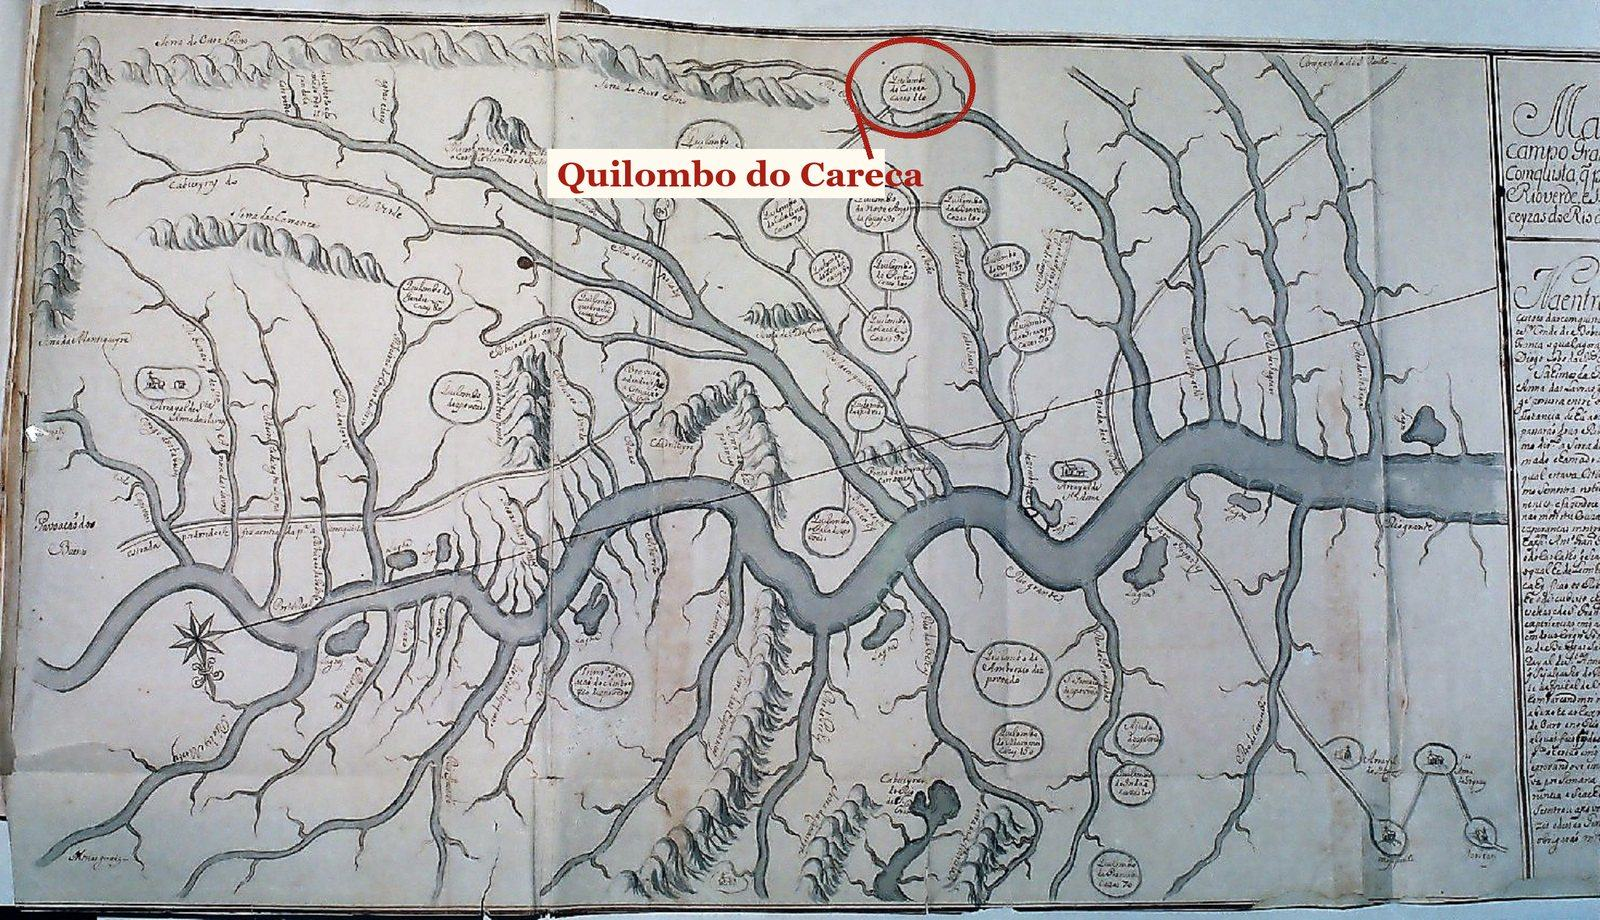
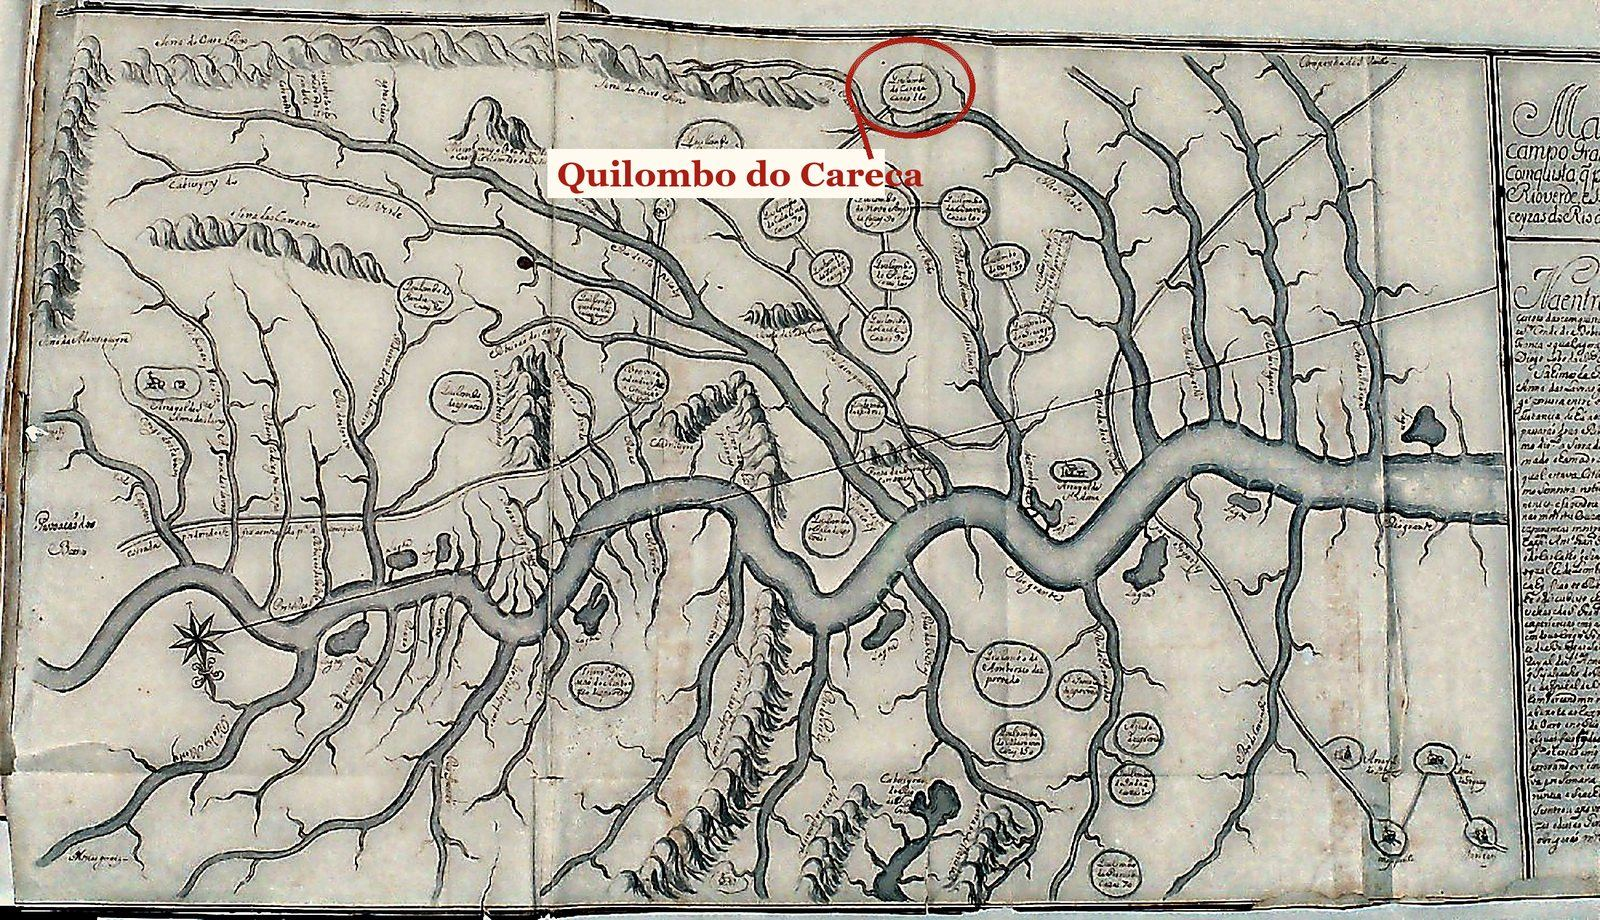
feat(historias-de-divinolandia): mapa de 1765 mais nítido
A foto do Mapa de todo o Campo Grande foi tratada: iluminação
uniformizada, sombras das dobras atenuadas, contraste, menos ruído e
nitidez. Nenhum traço redesenhado. O clique abre a versão em
resolução cheia (2470 px).

Claude-Session: https://claude.ai/code/session_01FHJTso26e3t3K7Q9nUttcK

diff --git a/historias-de-divinolandia/index.html b/historias-de-divinolandia/index.html
@@ -355,8 +355,8 @@
     <p>O mapa é o "Mapa de todo o Campo Grande", desenhado para a entrada do capitão Antônio Francisco França por ordem do Conde de Bobadela e conhecido por uma cópia de 1765, manuscrita e aquarelada, de 43 por 89,5 centímetros, guardada no Instituto de Estudos Brasileiros da USP. Dos 24 quilombos que ele marca, 15 trazem o número de casas, 1.637 ao todo, e o Careca, com 220, é o maior deles<sup><a href="#c1-n2">2</a></sup><sup><a href="#c1-n1">1</a></sup>.</p>
 
     <figure class="figura">
-      <a href="imagens/campo-grande-careca.jpg"><img src="imagens/campo-grande-careca.jpg" width="1600" height="920" loading="lazy" decoding="async" alt="Mapa manuscrito do século XVIII, com rios em forma de galhos, serras desenhadas e quilombos em pequenos ovais com legendas; no alto, um oval está circulado em vermelho com o rótulo Quilombo do Careca."></a>
-      <figcaption>O "Mapa de todo o Campo Grande", cópia de 1765 do mapa feito para a expedição de 1759 (Instituto de Estudos Brasileiros da USP, YAP-023-016), com o Quilombo do Careca circulado em vermelho. Domínio público; imagem do mapa reproduzida no site de Tarcísio José Martins; a marcação foi feita para este livro<sup><a href="#c1-n22">22</a></sup>.</figcaption>
+      <a href="imagens/campo-grande-careca-grande.jpg"><img src="imagens/campo-grande-careca.jpg" width="1600" height="920" loading="lazy" decoding="async" alt="Mapa manuscrito do século XVIII, com rios em forma de galhos, serras desenhadas e quilombos em pequenos ovais com legendas; no alto, um oval está circulado em vermelho com o rótulo Quilombo do Careca."></a>
+      <figcaption>O "Mapa de todo o Campo Grande", cópia de 1765 do mapa feito para a expedição de 1759 (Instituto de Estudos Brasileiros da USP, YAP-023-016), com o Quilombo do Careca circulado em vermelho. Domínio público; imagem do mapa reproduzida no site de Tarcísio José Martins, com contraste e nitidez realçados e a marcação feitos para este livro; clique para ver em tamanho maior<sup><a href="#c1-n22">22</a></sup>.</figcaption>
     </figure>
 
     <p>No mapa, o Careca está no alto, num oval com a inscrição "Quilombo do Careca, casas 220", desenhado dentro de uma curva do rio que, mais adiante, leva a legenda "Rio Pardo", junto à foz de um pequeno córrego; um caminho o liga aos quilombos da Cala Boca e do Cascalho<sup><a href="#c1-n22">22</a></sup>.</p>
@@ -443,7 +443,7 @@
       <li id="c1-n19">SILVA, Lucas E. C. da; GASPAR, Tarcísio de Souza. Toponímia quilombola nos sertões de Cabo Verde, Jacuí e Rio Pardo: análise de registros cartográficos e documentais (c. 1760–1824). Jornada Científica e Tecnológica do IFSULDEMINAS. O "Mapa de todo o Campo Grande" (IEB-USP, YAP-023-016), o requerimento de Vicente Ferreira de Paiva Bueno (AHU, cx. 155, doc. 7) e os registros paroquiais da freguesia de N. S. da Conceição do Bom Sucesso do Rio Pardo. <a href="https://josif.ifsuldeminas.edu.br/ojs/index.php/anais/article/download/58/453">josif.ifsuldeminas.edu.br (PDF)</a></li>
       <li id="c1-n20">Análise feita para este livro com dados do OpenStreetMap (© colaboradores do OpenStreetMap, ODbL, novembro de 2026). O traçado do Rio Pardo, medido a cada 1,5 km de Caconde a São José do Rio Pardo, tem a sua maior curva à direita, olhando rio abaixo, em cerca de 21,587° S, 46,745° O, dentro de Divinolândia (o rio passa de rumo sudoeste a norte-noroeste, uns 103°); ali deságuam, pela margem esquerda, o Córrego Fortaleza (cabeceira em cerca de 21,612° S, 46,728° O) e um córrego sem nome. O Córrego do Quilombo tem a cabeceira em cerca de 21,627° S, 46,709° O, em Divinolândia, e corre para o norte; a "Igreja do Pontal" está em 21,590° S, 46,712° O, a 1.277 m, no município de Caconde; as nascentes do Córrego das Contentas ficam a leste, perto do bairro Contendas (21,643° S, 46,695° O). <a href="https://www.openstreetmap.org/node/5828318668">openstreetmap.org (Igreja do Pontal)</a></li>
       <li id="c1-n21">COMISSÃO GEOGRÁFICA E GEOLÓGICA DO ESTADO DE S. PAULO. <em>Folha de Casa Branca</em>, 1:100.000, edição preliminar, 1905 (acervo do Museu Paulista da USP, domínio público): "Faz. Quilombo" e "C. do Quilombo" entre Vargem Grande, Água Fria e o Ribeirão das Contendas. A posição da fazenda, cerca de 21,635° S, 46,705° O, foi calculada para este livro a partir da grade da folha, com erro estimado de algumas centenas de metros. <a href="https://commons.wikimedia.org/wiki/File:Mapa_da_Comiss%C3%A3o_Geogr%C3%A1fica_e_Geol%C3%B3gica_do_Estado_de_S%C3%A3o_Paulo_-_Folha_de_Casa_Branca_-_1,_Acervo_do_Museu_Paulista_da_USP.jpg">Wikimedia Commons</a></li>
-      <li id="c1-n22">"Mapa de todo o Campo Grande tanto da parte da Conquista, que parte com a Campanha do Rio Verde e S. Paulo, como de Piuí, Cabeceiras do Rio de S. Francisco e Goiases", cópia de 1765, manuscrita e aquarelada, 43 × 89,5 cm. Instituto de Estudos Brasileiros da USP, YAP-023-016. Domínio público. Imagem do mapa reproduzida por Tarcísio José Martins em <em>Mapa da Confederação Quilombola do Campo Grande</em> (arquivo R001-009.jpg); a leitura da inscrição "Quilombo do Careca, casas 220" confere com o número de casas dado por Silva Filho, Amorim Filho e Castro (2011) e por Faria (2014). O círculo, o rótulo e o recorte foram feitos para este livro. <a href="https://www.mgquilombo.com.br/mapa-da-confederacao-quilombola-do-campo-grande/">mgquilombo.com.br</a></li>
+      <li id="c1-n22">"Mapa de todo o Campo Grande tanto da parte da Conquista, que parte com a Campanha do Rio Verde e S. Paulo, como de Piuí, Cabeceiras do Rio de S. Francisco e Goiases", cópia de 1765, manuscrita e aquarelada, 43 × 89,5 cm. Instituto de Estudos Brasileiros da USP, YAP-023-016. Domínio público. Imagem do mapa reproduzida por Tarcísio José Martins em <em>Mapa da Confederação Quilombola do Campo Grande</em> (arquivo R001-009.jpg); a leitura da inscrição "Quilombo do Careca, casas 220" confere com o número de casas dado por Silva Filho, Amorim Filho e Castro (2011) e por Faria (2014). Para este livro, a foto foi tratada digitalmente (iluminação uniformizada, sombras das dobras atenuadas, contraste ampliado, ruído reduzido e nitidez realçada), sem redesenhar nenhum traço nem letra; o círculo, o rótulo e o recorte também foram feitos para este livro. <a href="https://www.mgquilombo.com.br/mapa-da-confederacao-quilombola-do-campo-grande/">mgquilombo.com.br</a></li>
     </ol>
   </section>
 
